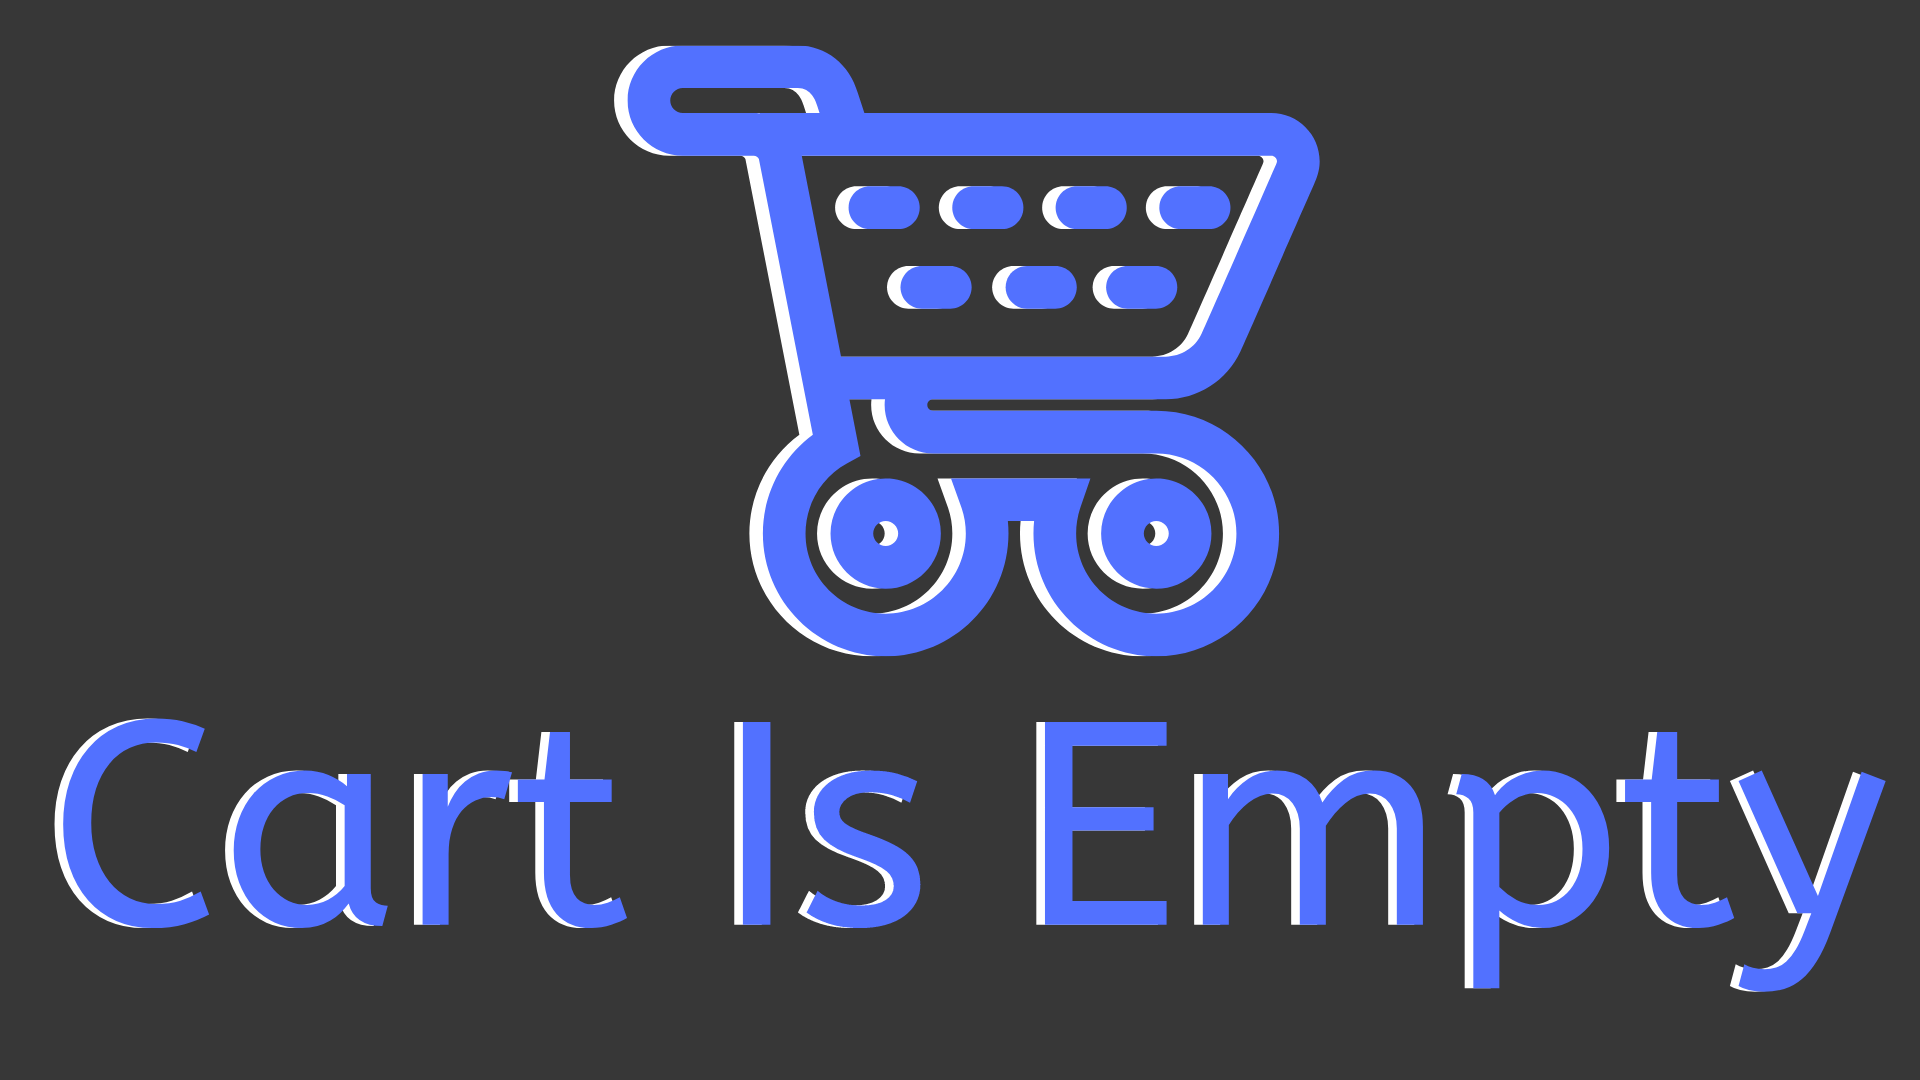
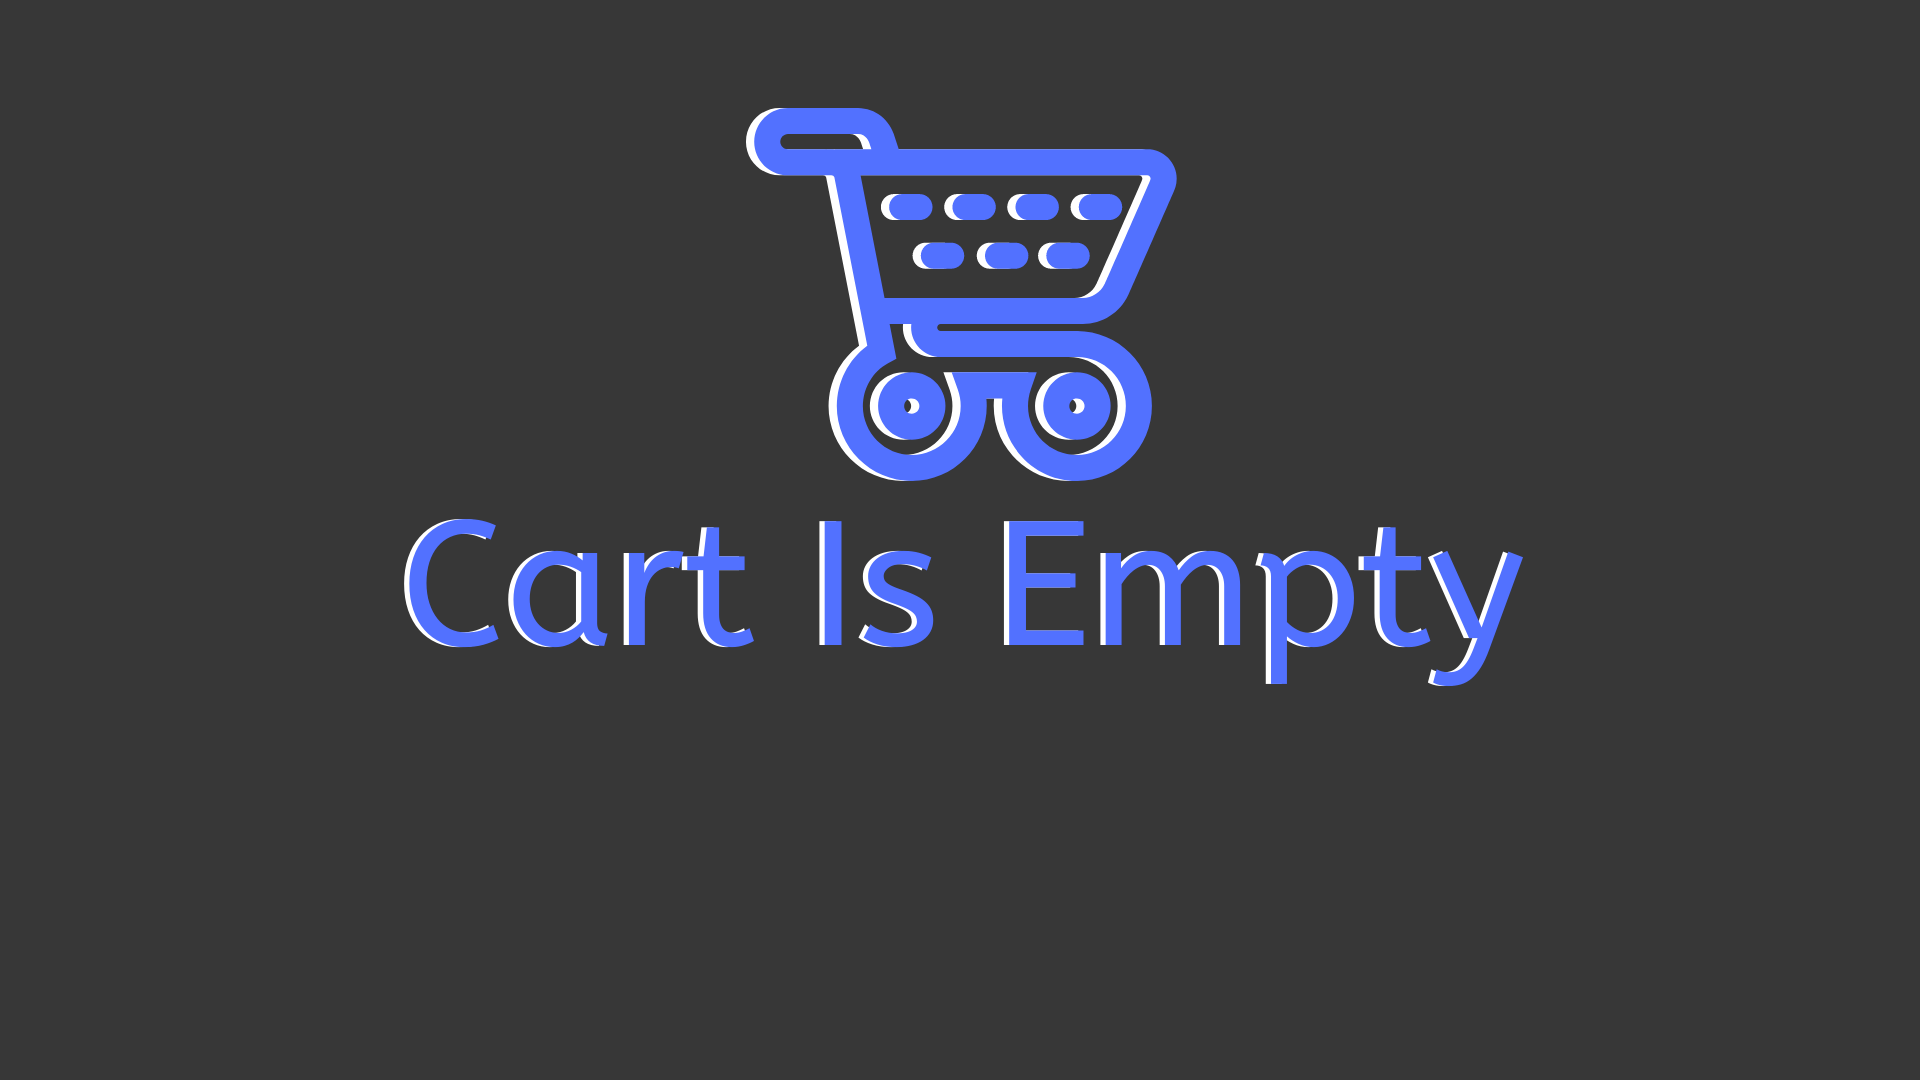
adding cart for no user token

diff --git a/src/components/cart/Cart.tsx b/src/components/cart/Cart.tsx
@@ -1,6 +1,7 @@
 import React, { Component } from 'react';
 import { Pane } from 'evergreen-ui';
 import CartDisplay from './CartDisplay';
+import Photo from '../../Assets/BuySometing.png';
 
 interface ICartProps{
     token: (token: string) => void
@@ -36,8 +37,10 @@ export class Cart extends React.Component <ICartProps, ICartState> {
     }
 
     componentDidMount = () => {
-        console.log(this.state.token);
-        console.log(this.state.cartId);
+        // console.log(this.state.token);
+        // console.log(this.state.cartId);
+
+        this.state.token === null ? this.mapper(this.state.data) :
 
             fetch(`http://localhost:8000/cart/`, {
                 method: 'GET',
@@ -61,9 +64,9 @@ export class Cart extends React.Component <ICartProps, ICartState> {
     }
 
     mapper = (data: any) => {
-        return data ? data.map((item: any, index: number) => {
+        return data.length > 0 ? data.map((item: any, index: number) => {
             return <CartDisplay name={item.name} description={item.description} price={item.price} quantity={item.quantity} weight={item.weight} onsale={item.onsale} key={index}/>
-        }) : <img src='../../Assets/BuySomething.png'></img>
+        }) : <img src={Photo} style={{width: '100%', height: '100%'}}></img>
     }
 
     render() {
